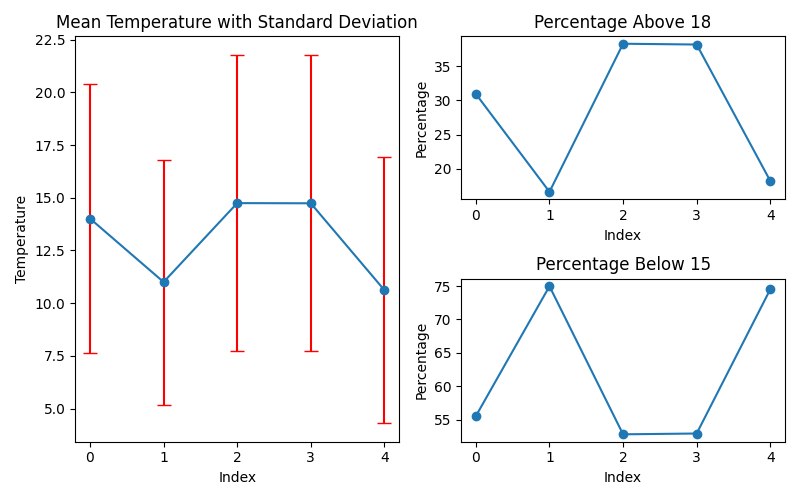
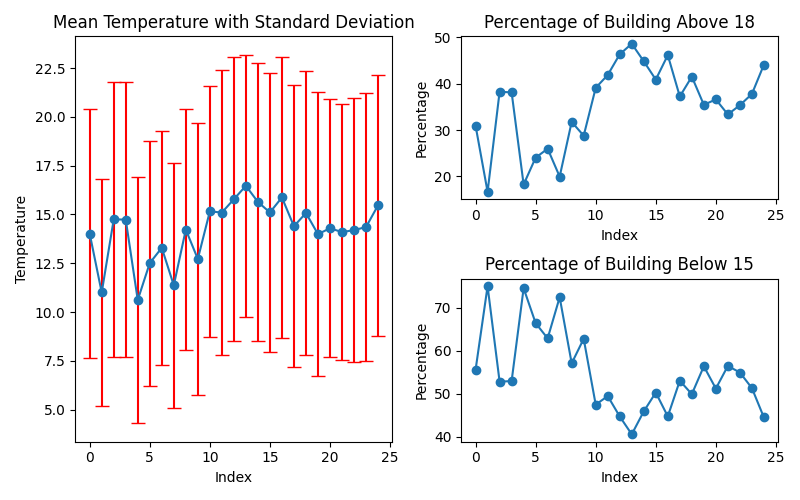
Changes to 5

diff --git a/plot_speedup.py b/plot_speedup.py
@@ -4,7 +4,7 @@ import matplotlib.pyplot as plt
 workers = []
 times = []
 
-with open('timings.txt') as f:
+with open('timings_static_scheduling.txt') as f:
     for line in f:
         n, t = line.strip().split()
         workers.append(int(n))
@@ -20,5 +20,27 @@ plt.xlabel('Number of Workers')
 plt.ylabel('Speedup')
 plt.title('Parallel Speedup')
 plt.grid(True)
-plt.savefig('speedup_plot.png')
+plt.savefig('speedup_plot_static.png')
+
+# Load and compute data
+workers = []
+times = []
+
+with open('timings_dynamic_scheduling.txt') as f:
+    for line in f:
+        n, t = line.strip().split()
+        workers.append(int(n))
+        times.append(float(t))
+
+baseline = times[0]
+speedups = [baseline / t for t in times]
+
+# Plot
+plt.figure()
+plt.plot(workers, speedups, marker='o')
+plt.xlabel('Number of Workers')
+plt.ylabel('Speedup')
+plt.title('Parallel Speedup')
+plt.grid(True)
+plt.savefig('speedup_plot_dynamic.png')
 

diff --git a/visualize_stats.py b/visualize_stats.py
@@ -37,14 +37,14 @@ ax2 = fig.add_subplot(2, 2, 2)
 ax2.plot(stats.index, stats['pct_above_18'], '-o')
 ax2.set_xlabel('Index')
 ax2.set_ylabel('Percentage')
-ax2.set_title('Percentage Above 18')
+ax2.set_title('Percentage of Building Above 18')
 
 # Plot the pct_below_15
 ax3 = fig.add_subplot(2, 2, 4)
 ax3.plot(stats.index, stats['pct_below_15'], '-o')
 ax3.set_xlabel('Index')
 ax3.set_ylabel('Percentage')
-ax3.set_title('Percentage Below 15')
+ax3.set_title('Percentage of Building Below 15')
 
 plt.tight_layout()
 plt.show()

diff --git a/simulate.py b/simulate.py
@@ -4,7 +4,7 @@ import numpy as np
 import csv
 
 LOCAL = True
-to_csv = False
+to_csv = True
 
 
 def load_data(load_dir, bid):
@@ -57,7 +57,7 @@ if __name__ == '__main__':
         building_ids = f.read().splitlines()
 
     if len(sys.argv) < 2:
-        N = 5
+        N = 25
     else:
         N = int(sys.argv[1])
     building_ids = building_ids[:N]
